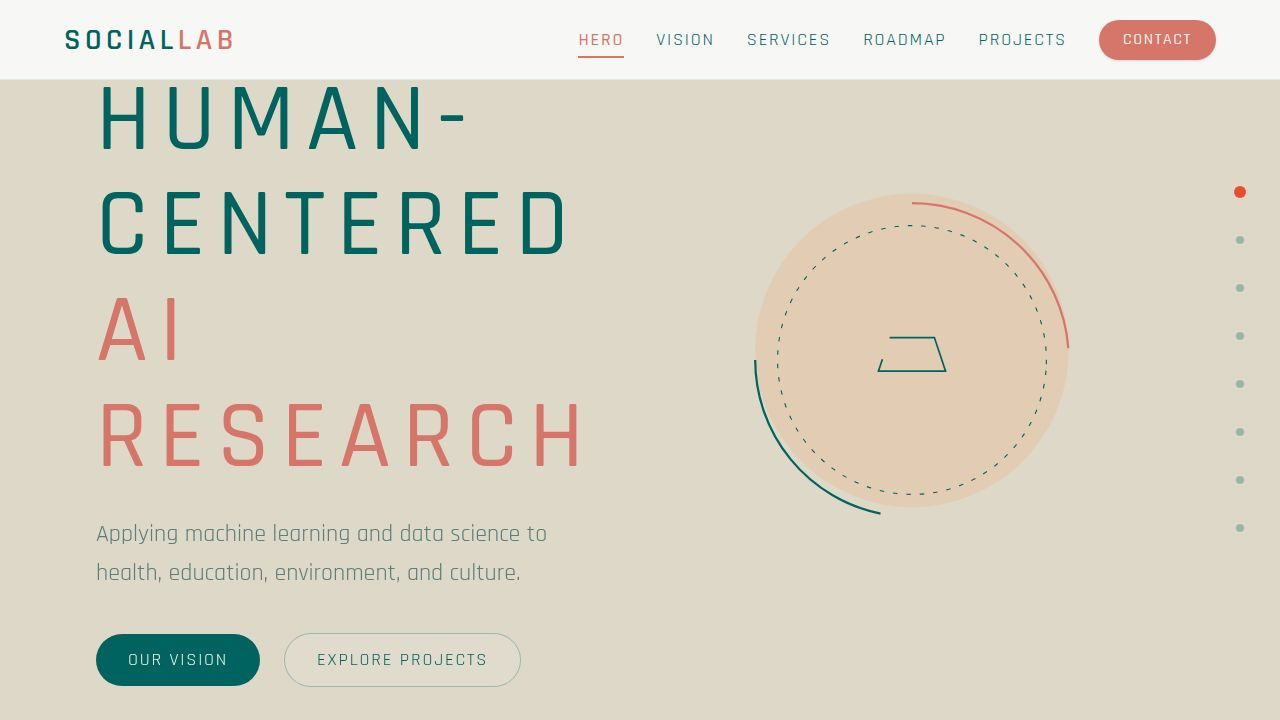
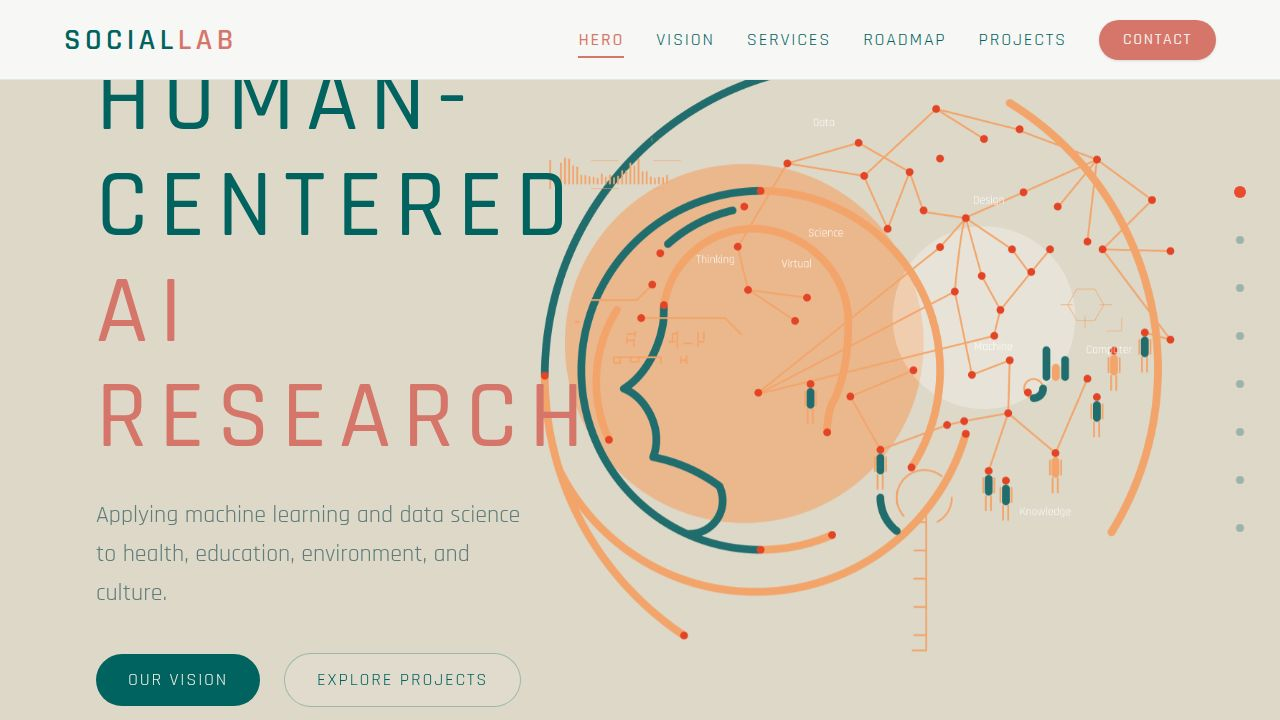
Update hero image to use uploaded PNG with animations
Replaced SVG hero illustration with provided PNG (`SocialLab-Home-Main-Slider-2_1783330194635.png`) in `App.tsx`, applying fade and float animations.

Replit-Commit-Author: Agent
Replit-Commit-Session-Id: 3c0404a7-6535-4dd6-8c1b-c7abf856f2e5
Replit-Commit-Checkpoint-Type: full_checkpoint
Replit-Commit-Event-Id: 7544d110-1ac4-415d-8560-e2242e5770a5
Replit-Commit-Screenshot-Url: https://storage.googleapis.com/screenshot-production-us-central1/2fcceb8b-4575-49a9-99bf-8c548b2bb9f4/3c0404a7-6535-4dd6-8c1b-c7abf856f2e5/8oyFEZK
Replit-Helium-Checkpoint-Created: true

diff --git a/artifacts/sociallab/src/App.tsx b/artifacts/sociallab/src/App.tsx
@@ -1,5 +1,6 @@
 import React, { useEffect, useState, useRef } from "react";
 import { motion, useInView } from "framer-motion";
+import heroImage from "@assets/SocialLab-Home-Main-Slider-2_1783330194635.png";
 
 const SLIDES = [
   "Hero",
@@ -131,12 +132,12 @@ function ProgressRail({ activeIndex, onJump }: { activeIndex: number, onJump: (i
 
 function HeroSlide() {
   return (
-    <div className="h-full w-full bg-sand flex flex-col md:flex-row items-center justify-center px-6 md:px-24 relative overflow-hidden">
+    <div className="h-full w-full bg-sand flex flex-col md:flex-row items-center justify-center px-6 md:px-24 md:gap-8 relative overflow-hidden">
       <motion.div 
         initial={{ opacity: 0, y: 30 }}
         whileInView={{ opacity: 1, y: 0 }}
         transition={{ duration: 0.8, ease: EASE }}
-        className="w-full md:w-1/2 text-left z-10 pt-20 md:pt-0"
+        className="w-full md:w-1/2 lg:w-[40%] md:min-w-0 md:shrink-0 text-left z-10 pt-20 md:pt-0"
       >
         <p className="font-mono text-primary-teal mb-3 md:mb-4 tracking-widest uppercase text-xs md:text-sm">INNOVATION FACTORY & ACADEMY</p>
         <h1 className="text-4xl md:text-8xl font-medium text-primary-teal leading-[1.15] md:leading-[1.1] tracking-[0.06em] md:tracking-[0.12em] mb-4 md:mb-6">
@@ -154,35 +155,17 @@ function HeroSlide() {
           </button>
         </div>
       </motion.div>
-      <div className="w-full md:w-1/2 h-full flex items-center justify-center relative mt-6 md:mt-0">
-        <svg viewBox="0 0 400 400" className="w-full max-w-[220px] md:max-w-md h-auto">
-          {/* Abstract background blobs */}
-          <motion.circle cx="200" cy="200" r="140" fill="#F4A261" opacity="0.2"
-            animate={{ y: [-10, 10, -10] }} transition={{ duration: 8, repeat: Infinity, ease: "easeInOut" }} />
-          
-          {/* Concentric arcs */}
-          <motion.circle cx="200" cy="200" r="120" fill="none" stroke="#00635F" strokeWidth="1" strokeDasharray="4 8"
-            initial={{ rotate: 0 }} animate={{ rotate: 360 }} transition={{ duration: 60, repeat: Infinity, ease: "linear" }} />
-          <motion.path d="M 200 60 A 140 140 0 0 1 340 200" fill="none" stroke="#D6766B" strokeWidth="2"
-            initial={{ pathLength: 0 }} whileInView={{ pathLength: 1 }} transition={{ duration: 1.5, ease: EASE }} />
-          <motion.path d="M 60 200 A 140 140 0 0 0 200 340" fill="none" stroke="#00635F" strokeWidth="2"
-            initial={{ pathLength: 0 }} whileInView={{ pathLength: 1 }} transition={{ duration: 1.5, delay: 0.2, ease: EASE }} />
-            
-          {/* Network nodes */}
-          <motion.g initial={{ opacity: 0 }} whileInView={{ opacity: 1 }} transition={{ delay: 1, duration: 1 }}>
-            <line x1="200" y1="200" x2="280" y2="120" stroke="#00635F" strokeWidth="1" opacity="0.5" />
-            <line x1="200" y1="200" x2="140" y2="140" stroke="#00635F" strokeWidth="1" opacity="0.5" />
-            <line x1="200" y1="200" x2="160" y2="280" stroke="#00635F" strokeWidth="1" opacity="0.5" />
-            <circle cx="200" cy="200" r="8" fill="#D6766B" />
-            <circle cx="280" cy="120" r="4" fill="#E94B2E" />
-            <circle cx="140" cy="140" r="5" fill="#00635F" />
-            <circle cx="160" cy="280" r="4" fill="#E94B2E" />
-          </motion.g>
-
-          {/* Central geometric motif representing brain/network */}
-          <motion.path d="M180,180 L220,180 L230,210 L170,210 Z" fill="none" stroke="#00635F" strokeWidth="1.5"
-            initial={{ pathLength: 0 }} whileInView={{ pathLength: 1 }} transition={{ duration: 1 }} />
-        </svg>
+      <div className="w-full md:w-1/2 lg:w-[60%] h-full flex items-center justify-center lg:justify-end relative mt-6 md:mt-0">
+        <motion.img
+          src={heroImage}
+          alt="SocialLab AI research illustration"
+          initial={{ opacity: 0, x: 40 }}
+          whileInView={{ opacity: 1, x: 0 }}
+          transition={{ duration: 0.9, ease: EASE }}
+          animate={{ y: [0, -12, 0] }}
+          className="w-full max-w-[280px] md:max-w-xs lg:max-w-2xl h-auto object-contain"
+          style={{ transitionProperty: "opacity, transform" }}
+        />
       </div>
     </div>
   );